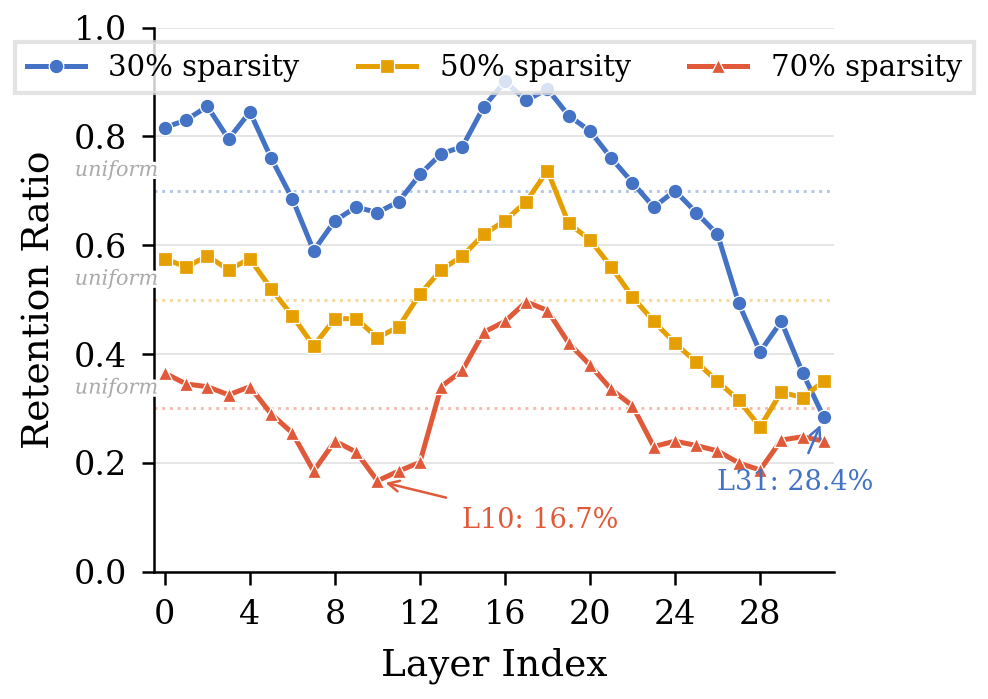
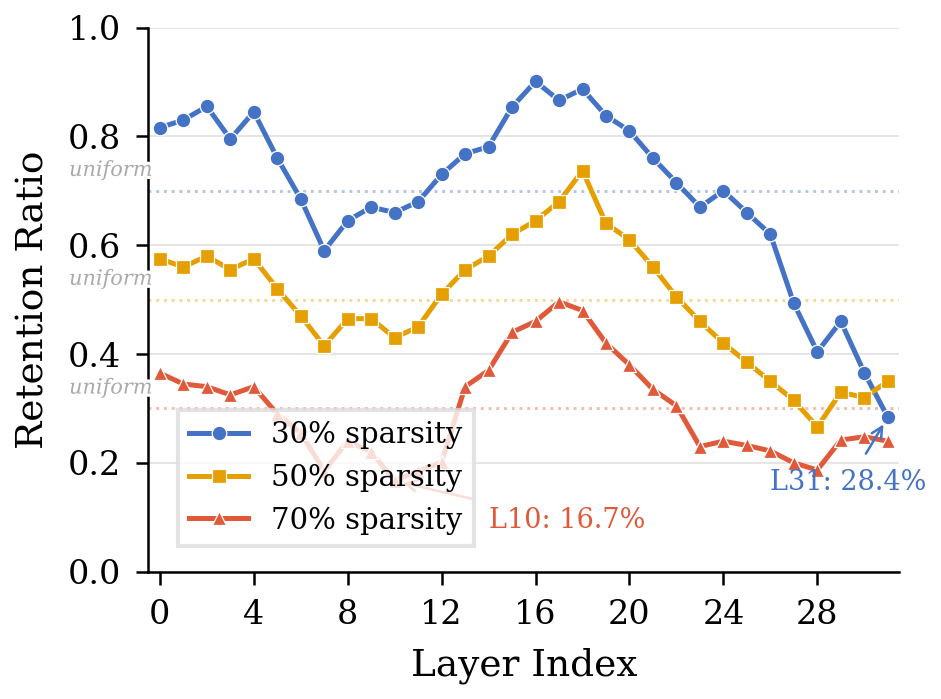
[paper] Refine Figure 2/5/6 legend positions after visual review

diff --git a/figures/paper/gen_k_curve_ppl.py b/figures/paper/gen_k_curve_ppl.py
@@ -90,8 +90,9 @@ legend_elements = [
     Line2D([0], [0], color=COL_TEAL, linestyle='--',
            label='TEAL baseline', linewidth=1.0),
 ]
-ax.legend(handles=legend_elements, loc='lower left', frameon=True,
-          fancybox=False, edgecolor='#DDDDDD', fontsize=7)
+ax.legend(handles=legend_elements, loc='upper right', frameon=True,
+          fancybox=False, edgecolor='#DDDDDD', fontsize=7,
+          bbox_to_anchor=(0.98, 0.98))
 
 fig.tight_layout()
 fig.savefig(f'{OUT}/k_curve_ppl.pdf')

diff --git a/figures/paper/gen_per_layer_retention.py b/figures/paper/gen_per_layer_retention.py
@@ -98,8 +98,9 @@ ax.set_xticks(np.arange(0, 32, 4))
 ax.yaxis.grid(True, color='#E0E0E0', linewidth=0.4, zorder=0)
 ax.set_axisbelow(True)
 
-ax.legend(loc='upper center', frameon=True, fancybox=False,
-          edgecolor='#DDDDDD', fontsize=7, ncol=3)
+ax.legend(loc='lower left', frameon=True, fancybox=False,
+          edgecolor='#DDDDDD', fontsize=7, ncol=1,
+          bbox_to_anchor=(0.02, 0.02))
 
 fig.tight_layout()
 fig.savefig(f'{OUT}/per_layer_retention_chart.pdf')

diff --git a/figures/paper/gen_snr_trajectory.py b/figures/paper/gen_snr_trajectory.py
@@ -100,8 +100,9 @@ ax.set_xlim(-20, 1020)
 ax.yaxis.grid(True, color='#E0E0E0', linewidth=0.4, zorder=0)
 ax.set_axisbelow(True)
 
-ax.legend(loc='lower right', frameon=True, fancybox=False,
-          edgecolor='#DDDDDD', framealpha=0.9)
+ax.legend(loc='upper left', frameon=True, fancybox=False,
+          edgecolor='#DDDDDD', framealpha=0.9,
+          bbox_to_anchor=(0.02, 0.98))
 
 ax.annotate(
     'BCE: higher SNR\nbut worse masks',
